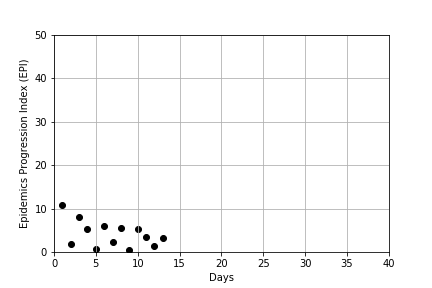
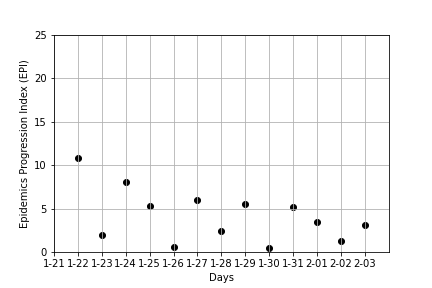
Modifiche codice

diff --git a/IconProgetto/Regione.py b/IconProgetto/Regione.py
@@ -10,20 +10,9 @@ class Regione:
     # Initialize the class
     def __init__(self, name:str):
         self.name = name
-
-        #calcolare il colore automaticamente con una funzione di predizione oppure dal dataset
         self.rt = self.avgRT()
         self.color = ""
-            
-    # Compare nodes
-    def __eq__(self, other):
-        return self.name == other.name
-    # Sort nodes
-    def __lt__(self, other):
-         return self.f < other.f
-    # Print node
-    def __repr__(self):
-        return ('({0},{1})'.format(self.name, self.f))
+              
     def avgRtByDate(self, dataCalcolo):
         #ADDESTRAMENTO
         linkDataset = "https://raw.githubusercontent.com/aribussola/dati-covid-regioni-icon/main/Italia-dataSet-COVID/" + self.name +".csv"
@@ -68,29 +57,7 @@ class Regione:
         X = []  # Conversione date (stringhe) in numeri 
         for i in range(1, len(y)+1):
             X.append([i])
-
-# =============================================================================
-#         # Grafico andamento epidemia    
-#         plt.scatter(X, y, color='black')
-#         plt.grid()
-#         plt.xlabel('Days')
-#         plt.xlim(0,40)
-#         plt.ylim(0,50)
-#         elencoDate = datetime.strptime(data['data'][0], '%Y-%m-%dT%H:%M:%S')
-#         elencoDate2 = []
-#         for i in range(0, len(tt)):
-#             elencoDate2.append(str(elencoDate[i].day) + "/" + str(elencoDate[i].month))
-#         arrayDateNumeriche = []
-#         for i in range ( len(tt)):
-#             arrayDateNumeriche.append(i)
-#         plt.xticks(arrayDateNumeriche,
-#                    elencoDate2)
-#         plt.ylabel('Epidemics Progression Index (EPI)')
-#         plt.savefig("EPI-all.png")
-#         plt.show()
-# =============================================================================
-
-             
+           
         #CALCOLO RT E CREAZIONE REGRESSORE
         start = len(tt)-14 #giorno inizio previsioni
     
@@ -111,7 +78,83 @@ class Regione:
         error
         
         X_test = [] # Contiene sia i vecchi giorni (cioè i giorni per i quali i dati sono già disponibili) sia i giorni futuri
-        gp = 7 # Numero di giorni di previsione
+        gp = 21 # Numero di giorni di previsione
+        for i in range(start, start + gp):
+            X_test.append([i])
+            y_pred_linear = linear_regr.predict(X_test) # Previsione dell'EPI per i giorni futuri
+            
+        
+        # Calcolo dell'errore commesso dal modello
+        avgEPI = 0
+        
+        for i in range(0, len(y_pred_linear)):
+            if(i>13):
+                avgEPI = avgEPI + y_pred_linear[i]    
+            
+        avgEPI = avgEPI / 7
+    
+        print(avgEPI)
+        return avgEPI     
+
+    #Fare NomeRegione.printGraphics
+    def printGraphics(self):
+        linkDataset = "https://raw.githubusercontent.com/aribussola/dati-covid-regioni-icon/main/Italia-dataSet-COVID/" + self.name +".csv"
+        data = pd.read_csv(linkDataset) 
+        tc = data['totale_casi']
+        tt = data['tamponi']
+        y = [] # EPI
+        tt_increase = []
+        #Primo Grafico
+        for i in range(1, len(tt)):
+            current_epi = (tc[i] - tc[i-1])/(tt[i]-tt[i-1])*100
+            tt_increase.append(tt[i]-tt[i-1])
+            y.append(current_epi)
+            data['data']
+
+        X = []  # Conversione date (stringhe) in numeri 
+        for i in range(1, len(y)+1):
+            X.append([i])
+
+
+        # Grafico andamento epidemia    
+        plt.scatter(X, y, color='black')
+        plt.grid()
+        plt.xlabel('Days')
+        plt.xlim(0,14)
+        plt.ylim(0,25)
+        elencoDate = data['data']
+        elencoDateGrafico = []
+        for i in range (14):
+            elencoDateGrafico.append(elencoDate[i][6:10])
+            
+        plt.xticks([0,1,2,3,4,5,6,7, 8, 9, 10, 11, 12, 13],
+               elencoDateGrafico)
+        plt.ylabel('Epidemics Progression Index (EPI)')
+        plt.savefig("EPI-all.png")
+        plt.show()
+
+        #Secondo Grafico
+        #CALCOLO RT E CREAZIONE REGRESSORE
+        start = len(tt)-14 #giorno inizio previsioni
+    
+        # Costruzione del modello di apprendimento
+        X = X[start:]
+        y = y[start:]
+    
+        # Costruire un regressore lineare che rappresenti l'EPI, adatti il regressore e calcoli il punteggio
+        linear_regr = linear_model.LinearRegression()
+
+        # Addestrare il modello utilizzando i set di addestramento 
+        linear_regr.fit(X, y)
+        linear_regr.score(X,y)
+
+        # Prevedere l'andamento futuro
+        y_pred = linear_regr.predict(X)
+        error = max_error(y, y_pred)
+        error
+        
+        X_test = [] # Contiene sia i vecchi giorni (cioè i giorni per i quali i dati sono già disponibili) sia i giorni futuri
+        gp = 21 # Numero di giorni di previsione
         for i in range(start, start + gp):
             X_test.append([i])
             y_pred_linear = linear_regr.predict(X_test) # Previsione dell'EPI per i giorni futuri
@@ -120,16 +163,12 @@ class Regione:
         # Calcolo dell'errore commesso dal modello
         y_pred_max = []
         y_pred_min = []
-        avgEPI = 0
         
         for i in range(0, len(y_pred_linear)):
             y_pred_max.append(y_pred_linear[i] + error)
             y_pred_min.append(y_pred_linear[i] - error)
-            avgEPI = avgEPI + y_pred_linear[i]
             
-        avgEPI = avgEPI / len(y_pred_linear)
-    
-
+        
         #Parte di grafica
         # Tracciare tre linee (output della previsione, errore massimo ed l'errore minimo)
         data_eff = datetime.strptime(data['data'][start], '%Y-%m-%dT%H:%M:%S')
@@ -146,64 +185,16 @@ class Regione:
             data_curr = data_curr + timedelta(days=step)
             x_current = x_current + step
         
-# =============================================================================
-#         # Grafico finale
-#         plt.grid()
-#         plt.scatter(X, y, color='black')
-#         plt.plot(X_test, y_pred_linear, color='green', linewidth=2)
-#         plt.plot(X_test, y_pred_max, color='red', linewidth=1, linestyle='dashed')
-#         plt.plot(X_test, y_pred_min, color='red', linewidth=1, linestyle='dashed')
-#         plt.xlabel('Days')
-#         plt.xlim(start,start+gp)
-#         plt.xticks(x_ticks, date_prev)
-#         plt.ylabel('Epidemics Progression Index (EPI)')
-#         plt.yscale("log")
-#         plt.savefig("EPI-prediction.png")
-#         plt.show()
-# =============================================================================
-
-        print(avgEPI)
-        return avgEPI     
-
-# =============================================================================
-# print("ValleAosta")
-# ValleAosta = Regione("ValleAosta")
-# print("Piemonte")
-# Piemonte = Regione("Piemonte")
-# print("Lombardia")
-# Lombardia = Regione("Lombardia")
-# print("Liguria")
-# Liguria =  Regione("Liguria")
-# print("EmiliaRomagna")
-# EmiliaRomagna = Regione("EmiliaRomagna")
-# print("Veneto")
-# Veneto = Regione ("Veneto")
-# print("TrentinoAltoAdige")
-# TrentinoAltoAdige = Regione ("TrentinoAltoAdige")
-# print("FriuliVeneziaGiulia")
-# FriuliVeneziaGiulia = Regione("FriuliVeneziaGiulia")
-# print("Toscana")
-# Toscana =  Regione("Toscana")
-# print("Marche")
-# Marche = Regione("Marche")
-# print("Umbria")
-# Umbria = Regione("Umbria")
-# print("Lazio")
-# Lazio = Regione("Lazio")
-# print("Abruzzo")
-# Abruzzo = Regione("Abruzzo")
-# print("Campania")
-# Campania = Regione("Campania")
-# print("Molise")
-# Molise = Regione ("Molise")
-# print("Puglia")
-# Puglia = Regione("Puglia")
-# print("Basilicata")
-# Basilicata = Regione("Basilicata")
-# print("Calabria")
-# Calabria = Regione("Calabria")
-# print("Sicilia")
-# Sicilia = Regione("Sicilia")
-# print ("Sardegna")
-# Sardegna = Regione("Sardegna")
-# =============================================================================
+        # Grafico finale
+        plt.grid()
+        plt.scatter(X, y, color='black')
+        plt.plot(X_test, y_pred_linear, color='green', linewidth=2)
+        plt.plot(X_test, y_pred_max, color='red', linewidth=1, linestyle='dashed')
+        plt.plot(X_test, y_pred_min, color='red', linewidth=1, linestyle='dashed')
+        plt.xlabel('Days')
+        plt.xlim(start,start+gp)
+        plt.xticks(x_ticks, date_prev)
+        plt.ylabel('Epidemics Progression Index (EPI)')
+        plt.yscale("log")
+        plt.savefig("EPI-prediction.png")
+        plt.show()

diff --git a/IconProgetto/MainClass.py b/IconProgetto/MainClass.py
@@ -1,4 +1,3 @@
-# The main entry point for this module
 from Grafo import Graph, realCost, heuristicsVector, astar_search
 from Regione import Regione
 from sklearn import tree
@@ -52,7 +51,7 @@ def generateGraph () :
     # Create a graph
     graph = Graph()
     colorAssignment()
-    # Create graph connections (Actual distance)
+    # Create graph connections
    
     graph.connect(ValleAosta.name,Piemonte.name, realCost(ValleAosta.rt,Piemonte.rt))
     graph.connect(Piemonte.name,Lombardia.name, realCost(Piemonte.rt,Lombardia.rt))
@@ -91,8 +90,7 @@ def generateGraph () :
     
     # Make graph undirected, create symmetric connections
     graph.make_undirected()
-    
-    regioni = lista
+    regioni = lista.copy()
     i = 0
     while(i < (len(regioni))):
         if(regioni[i].color == "red"):
@@ -100,29 +98,33 @@ def generateGraph () :
              regioni.pop(i)
              i = i-1
         i = i+1
-    
         
-    
     return graph
+
 def getRegione (nameRegione):
     for i in range (len(lista)):
         if (nameRegione==lista[i].name):
             return lista[i]
     return None
+
 def findPath (start, end):
+
+    regioneStart = None
+    regioneEnd = None
     for i in range (len(lista)):
-        if lista[i].name==start:
+        if lista[i].name.lower()==start.lower():
             regioneStart = lista[i]
-        if lista[i].name==end:
+        if lista[i].name.lower()==end.lower():
             regioneEnd = lista[i]
             
+    if(regioneStart == None or regioneEnd == None):
+        print("Hai sbagliato a scrivere il nome della regione")
+        return
     graph = generateGraph ()
     
-    # Create heuristics (straight-line distance, air-travel distance)
     #Euristiche per la regione 
     heuristics = heuristicsVector (regioneEnd, lista)
 
-    #path = astar_search(graph, heuristics, 'Emilia Romagna', 'Puglia')
     path = astar_search(graph, heuristics, regioneStart, regioneEnd)
     print(path)
   
@@ -156,4 +158,10 @@ def colorAssignment():
         for k in range (len(lista)):
             if (regione[i]==lista[k].name):
                 lista[k].color=color
-        
+
+def printColors():
+    colorAssignment()
+    for i in range(len(lista)):
+        print(lista[i].name,":" , lista[i].color)
+    
+    

diff --git a/IconProgetto/Grafo.py b/IconProgetto/Grafo.py
@@ -1,4 +1,3 @@
-# -*- coding: utf-8 -*-
 from Regione import Regione
 
 # This class represent a graph
@@ -80,9 +79,9 @@ def astar_search(graph, heuristics, start:Regione, end:Regione):
         if current_node == goal_node:
             path = []
             while current_node != start_node:
-                path.append(current_node.name + ': ' + str(current_node.g))
+                path.append(current_node.name)
                 current_node = current_node.parent
-            path.append(start_node.name + ': ' + str(start_node.g))
+            path.append(start_node.name)
             # Return reversed path
             return path[::-1]
         # Get neighbours
@@ -115,11 +114,10 @@ def heuristic (start, goal):
     hValue = (start+goal)/2
     return hValue
 
-def heuristicsVector (regioneStart:Regione, lista):
-    #euristiche per la regione Puglia
+def heuristicsVector (regione:Regione, lista):
     heuristics = {}
     for i in range (len(lista)) :
-            heuristics[lista[i].name] = heuristic (regioneStart.rt, lista[i].rt)
+            heuristics[lista[i].name] = heuristic (regione.rt, lista[i].rt)
     return heuristics
 
 def realCost (start, goal):
